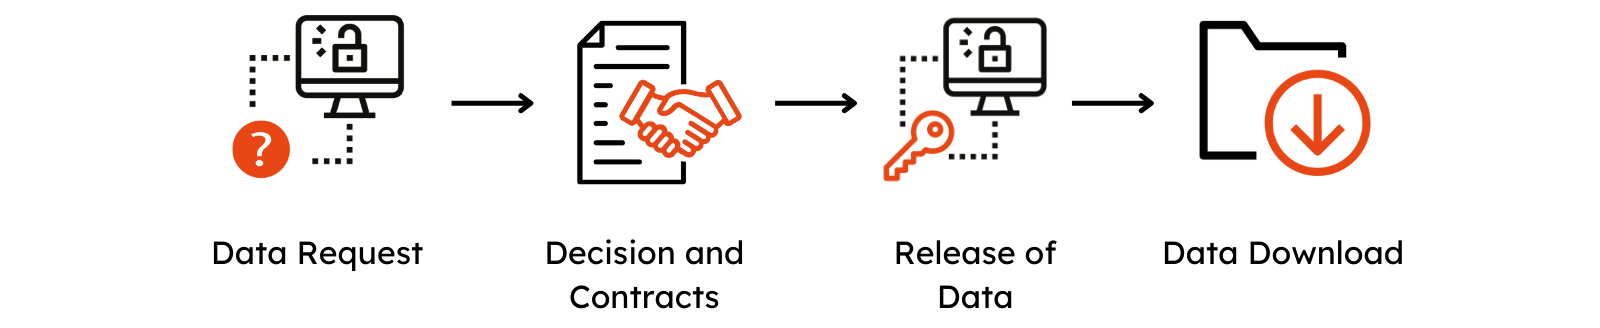
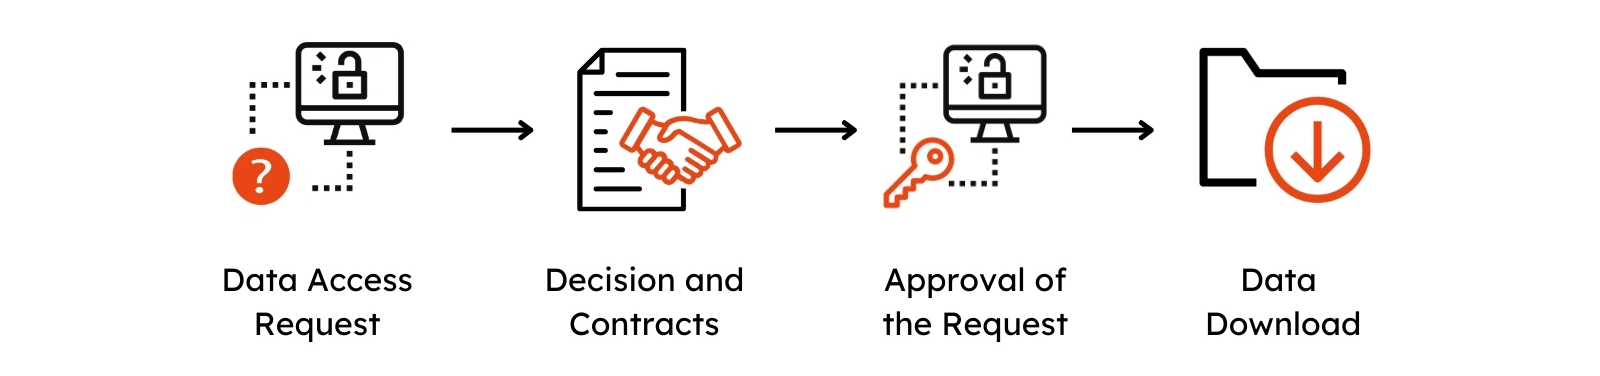
Accessing data update (#102)
* Update for Accessing Data

* changed anchor

* Figure fix

* Added "Tips for a Strong Request"

diff --git a/user_docs/user_stories/accessing_data.md b/user_docs/user_stories/accessing_data.md
@@ -1,29 +1,49 @@
 # Accessing Data
 
-  ![Flowchart with icons showing the key steps in the data access process: Data Request, Decision and Contracts, Release of Data, and Data Download – each described in more detail in the text below on this page.](../assets/img/User_stories_Accessing_Data.png){ width="800" }
+  ![Flowchart with icons showing the key steps in the data access process: Data Access Request, Decision and Contracts, Approval of the Request, and Data Download – each described in more detail in the text below on this page.](../assets/img/User_stories_Accessing_Data.png){ width="800" }
 
-## Creating a Data Access Request
+Getting access to a dataset on GHGA happens in four stages, shown above: you file a **Data Access Request**, the Research Data Controller's Data Access Committee handles the **Decision and Contracts** with you, GHGA then implements the **Approval of the Request**, and finally you perform the **Data Download**. Each stage is described in more detail below.
 
- - The GHGA Data Portal enables users to request access to data through the portal.
- - For creating a <general:Data Access Request (DAR)> you need to have a <general:LS ID|Life Science Login or LS-Login>.
- - Browse for your dataset of interest and then click on the "Request Access" button. This will direct you to a data access request form. 
- - Complete the form with the necessary information and submit your <general:Data Access Request (DAR)|Data Access Request>. 
- - The data access request will be sent to the <general:Research Data Controller (RDC)>, who will will review your request and respond accordingly. Please note that GHGA is not involved in the further process of negotiating the data access.
- - To download a dataset, a valid <general:Independent Verification Address (IVA)> has to be set up for account verification in your user profile in the GHGA Data Portal. 
-    - The <general:Independent Verification Address (IVA)|IVA> also needs to be shared with the <general:Research Data Controller (RDC)> as part of the negotiations of your request. 
-    - Once the access request is approved, the <general:Research Data Controller (RDC)> will instruct GHGA to share the data only with accounts which include the proper <general:Independent Verification Address (IVA)|IVA>. 
+## Data Access Request
 
-!!! note "Responsibilities for handling of data access requests"
-    Please note the GHGA is not responsible for deciding of data access requests as this is a responsibility of <general:Data Access Committee (DAC)> installed by the the <general:Research Data Controller (RDC)|Research Data Controller>. In case you do not receive notifications about the decision on your request, please first contact the DAC as indicated on the [dataset details page](../user_stories/browsing_data.md#dataset-details)
+!!! note "Prerequisite"
+    You need a <general:LS ID|Life Science Login or LS-Login> to log in to GHGA and create a Data Access Request.
+
+1. Browse for your dataset of interest and click the "Request Access" button. This will direct you to a Data Access Request form.
+2. Complete the form with the necessary information and submit your <general:Data Access Request (DAR)|Data Access Request>.
+3. The request is sent to the <general:Research Data Controller (RDC)> for the dataset. GHGA is not involved in the further process of negotiating the data access.
+
+We recommend setting up your <general:Independent Verification Address (IVA)> around the same time you submit your request, since you will need it in the next stage. See [Verifying Your Account](#verifying-your-account-with-an-iva) below.
+
+### Tips for a Strong Request
+
+A well-documented request helps the <general:Data Access Committee (DAC)> to assess it more quickly. When filling out the form, we recommend that you:
+
+- Use an email address affiliated with your institution rather than a personal address, so the DAC can confirm your affiliation at a glance.
+- State the institute or organisation you belong to.
+- Include your position or role (e.g. PhD student, postdoc, group leader), so the DAC can assess your standing to conduct the proposed research.
+- Use the request text to describe your research intent — what you plan to do with the data and why you need it — rather than a generic statement.
+
+## Decision and Contracts
 
   ![Flowchart showing data access process with roles: Researcher as Data Requester, Data Access Committee as Data Controller, and GHGA as Data Processor - each labeled with text and an icon. Arrows indicate decision and contracts flow between committee and researcher, and GHGA forwards access requests and enables data download after controller approval.](../assets/img/User_stories_Accessing_Data_roles.png){ width="800" }
 
-## Account verification using an Independent Verification Address (IVA)
+Your request is reviewed by a <general:Data Access Committee (DAC)> installed by the <general:Research Data Controller (RDC)|Research Data Controller>. The DAC checks your request against the dataset's data access policy and, if satisfied, negotiates a <general:Data Transfer Agreement (DTA)> with you directly. As part of this negotiation, you need to share your verified <general:Independent Verification Address (IVA)> with the RDC so they can confirm your identity independently of GHGA.
 
-As additional layer of safety, download tokens can only be generated by accounts that have at least one <general:Independent Verification Address (IVA)> registered. 
+!!! note "Responsibilities for handling of Data Access Requests"
+    GHGA is not responsible for deciding on Data Access Requests — this is the responsibility of the DAC. Processing times vary between Research Data Controllers. If you do not receive a decision on your request within a reasonable time, please reach out to the GHGA Helpdesk or the DAC as indicated on the [dataset details page](../user_stories/browsing_data.md#dataset-details).
 
-- Details on how to setup an IVA are described [here](../other/iva.md).
+For a closer look at how DACs are expected to review requests and negotiate DTAs, see the [Data Use and Access Guide](dua-guideline.md).
 
+## Approval of the Request
+
+Once the RDC has approved your request and a DTA is in place, the RDC instructs GHGA to implement the approval for your account. GHGA only shares data with accounts that are verified with the same IVA the RDC confirmed during the negotiation.
+
+### Verifying Your Account with an IVA
+
+As an additional layer of safety, download tokens can only be generated by accounts that have at least one verified <general:Independent Verification Address (IVA)> registered.
+
+- Details on how to set up and verify an IVA are described [here](../other/iva.md).
 
 ## Data Download
 
@@ -40,11 +60,11 @@ Downloading data from datasets you have been granted access to is a two stage pr
 
 ### Prerequisites
 
-To perform a file download from GHGA, users are required to have genreated a
+To perform a file download from GHGA, users are required to have generated a
 Crypt4GH keypair. The public key will be used to encrypt both the download token
 and the actual files that are downloaded. For information on how to generate a
 Crypt4GH keypair please refer to the official [Crypt4GH
-documentation](https://crypt4gh.readthedocs.io/en/latest/).
+documentation](https://crypt4gh.readthedocs.io/latest/).
 
 ### Download Preparation
 
@@ -63,11 +83,13 @@ perform the actual download.
     ![Screenshot of dataset list view in GHGA Data Portal with the option to create a download token – as described in the text above.](../assets/img/dataset-select.png){ width="800" }
 
 4. Fill the form with the necessary information in order to create a download
-token. Specifying one or multiple file IDs is optional, if not information is
-provided the entire dataset will be downloaded. A Crypt4GH public key must be
+token. Specifying one or multiple file IDs is optional, if none are entered the entire dataset will be downloaded. A Crypt4GH public key must be
 provided before submitting the form.
 
     ![Screenshot of download token creation form in GHGA Data Portal, requiring Crypt4GH public key – as described in the text above.](../assets/img/token-form.png){ width="800" }
+
+    !!! tip "Access period"
+        The token creation form also shows the time window for which your access to the dataset is valid, so you can see at a glance how long you have left to download the data.
 
 ### Download using GHGA Connector
 

diff --git a/user_docs/user_stories/dua-guideline.md b/user_docs/user_stories/dua-guideline.md
@@ -141,7 +141,7 @@ Before access is granted, the Research Data Controller needs to ensure that the 
 
 #### Using the Independent Verification Adress (IVA) to verify identities
 
-- To download data from GHGA, users need to have a verified account (see [here](accessing_data.md#account-verification-using-an-independent-verification-address-iva), which is linked to:
+- To download data from GHGA, users need to have a verified account (see [here](accessing_data.md#verifying-your-account-with-an-iva), which is linked to:
 
       1. a <general:LS ID> Acount
       2. a <general:Independent Verification Address (IVA)>
